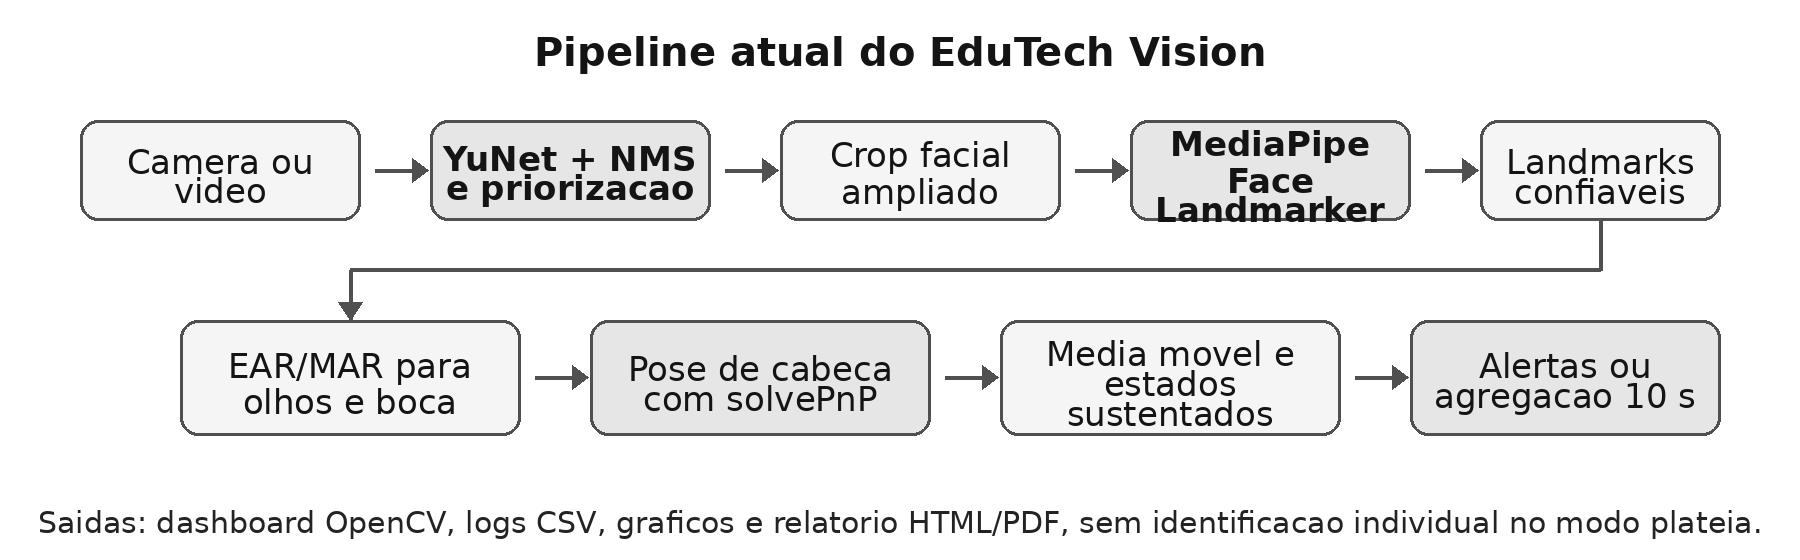
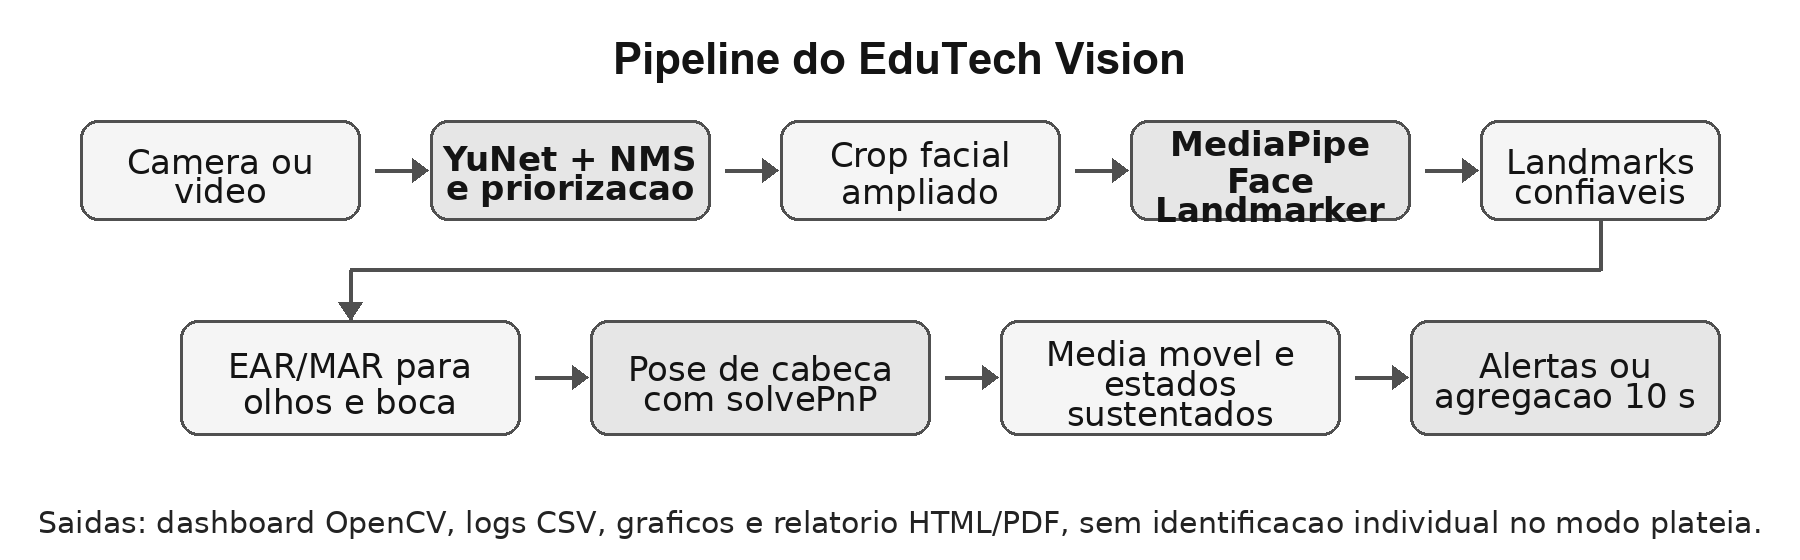
Clarify final article wording

Changed region(s): [[0.28, 0.0607, 0.7156, 0.1518]]

diff --git a/docs/entrega_professor/latex/artigo_edutech_vision_grupo3.tex b/docs/entrega_professor/latex/artigo_edutech_vision_grupo3.tex
@@ -25,11 +25,11 @@ Câmpus Universitário de Rondonópolis -- Rondonópolis -- MT -- Brasil\\
 \maketitle
 
 \begin{abstract}
-EduTech Vision is a real-time digital image processing (DIP) system for demonstrating attention, posture and audience engagement in individual and audience modes, without student identification. The pipeline uses Open Source Computer Vision Library (OpenCV) YuNet, MediaPipe Face Landmarker, Eye/Mouth Aspect Ratios (EAR/MAR), Perspective-n-Point (PnP) pose, moving averages and 10 s aggregation. In 960x540 benchmarks, enhanced reached F1=0.712 in individual mode and F1=0.583 in audience mode; in a 1080p high-quality (HQ) audience audit, 10/11 counts were within one face. The system is a DIP demonstration, not a pedagogical or clinical diagnostic tool.
+EduTech Vision is a real-time digital image processing (DIP) system for demonstrating attention, posture and audience engagement in individual and audience modes, without student identification. The pipeline uses the OpenCV YuNet face detector, MediaPipe Face Landmarker, Eye/Mouth Aspect Ratios (EAR/MAR), Perspective-n-Point (PnP) pose, moving averages and 10 s aggregation. In 960x540 benchmarks, the enhanced configuration reached F1=0.712 in individual mode and F1=0.583 in audience mode; in a 1080p high-quality (HQ) audience audit, 10/11 counts were within one face. The system is a DIP demonstration, not a pedagogical or clinical diagnostic tool.
 \end{abstract}
 
 \begin{resumo}
-O EduTech Vision é um sistema de Processamento Digital de Imagens (PDI) em tempo real para demonstrar atenção visual, postura e engajamento em modos individual e plateia, sem identificar estudantes. O pipeline usa Open Source Computer Vision Library (OpenCV) YuNet, MediaPipe Face Landmarker, razões olho/boca (EAR/MAR), pose Perspective-n-Point (PnP), médias móveis e agregação de 10 s. Em benchmarks 960x540, enhanced alcançou F1=0,712 no modo individual e F1=0,583 no modo plateia; em auditoria 1080p de alta qualidade (HQ), 10/11 contagens ficaram a até um rosto do valor manual. O sistema é demonstração de PDI, não avaliação pedagógica ou diagnóstico clínico.
+O EduTech Vision é um sistema de Processamento Digital de Imagens (PDI) em tempo real para demonstrar atenção visual, postura e engajamento em modos individual e plateia, sem identificar estudantes. O pipeline usa o detector facial YuNet da OpenCV, MediaPipe Face Landmarker, razões olho/boca (EAR/MAR), pose Perspective-n-Point (PnP), médias móveis e agregação de 10 s. Em benchmarks 960x540, a configuração enhanced alcançou F1=0,712 no modo individual e F1=0,583 no modo plateia; em auditoria 1080p de alta qualidade (HQ), 10/11 contagens ficaram a até um rosto do valor manual. O sistema é demonstração de PDI, não avaliação pedagógica ou diagnóstico clínico.
 \end{resumo}
 
 \section{Introdução}
@@ -38,7 +38,7 @@ A observação de atenção, postura e engajamento em ambientes educacionais cos
 
 Neste contexto, o EduTech Vision foi desenvolvido como produto acadêmico da Trilha 3: Atenção, Postura e Engajamento. O sistema possui dois cenários complementares: no modo individual, uma câmera frontal acompanha uma pessoa e estima fadiga, bocejo, queda postural e desatenção sustentada; no modo plateia, uma câmera voltada a um grupo calcula métricas agregadas de faces voltadas ao palco ou professor. O modo plateia não identifica alunos e não produz decisões individualizadas.
 
-O objetivo deste artigo é apresentar a versão atual do sistema com linguagem científica e evidências compatíveis com os resultados atuais disponíveis. O trabalho não afirma medir aprendizagem, rendimento escolar ou estado clínico. Os indicadores gerados são aproximações visuais para fins de demonstração acadêmica de PDI em tempo real.
+O objetivo deste artigo é apresentar a versão entregue do sistema com linguagem científica e evidências compatíveis com os resultados disponíveis. O trabalho não afirma medir aprendizagem, rendimento escolar ou estado clínico. Os indicadores gerados são aproximações visuais para fins de demonstração acadêmica de PDI em tempo real.
 
 \section{Fundamentação}
 
@@ -50,36 +50,36 @@ A postura e o foco visual aproximado são estimados por pose de cabeça. O siste
 
 \section{Sistema Proposto}
 
-A Figura~\ref{fig:pipeline} sintetiza o pipeline atual. A entrada pode ser câmera ou vídeo, processada em resolução padrão de 960x540. O perfil padrão é enhanced: OpenCV YuNet detecta faces, aplica supressão de não máximos e prioriza candidatos \cite{wu2023}; em seguida, cada região é recortada com margem ampliada e enviada ao MediaPipe Face Landmarker \cite{google2026}. O perfil mediapipe é mantido como baseline, enquanto o perfil research, baseado em Sample and Computation Redistribution for Efficient Face Detection (SCRFD) \cite{guo2022}, é apenas comparativo acadêmico e não constitui o padrão de distribuição.
+A Figura~\ref{fig:pipeline} sintetiza o pipeline entregue. A entrada pode ser câmera ou vídeo, processada em resolução padrão de 960x540. O perfil padrão é enhanced, isto é, uma configuração reforçada em que o YuNet da OpenCV detecta faces, aplica supressão de não máximos e prioriza candidatos \cite{wu2023}; em seguida, cada região é recortada com margem ampliada e enviada ao MediaPipe Face Landmarker \cite{google2026}. O perfil mediapipe é mantido como baseline, ou linha de base comparativa, enquanto o perfil research, baseado no detector Sample and Computation Redistribution for Efficient Face Detection (SCRFD) \cite{guo2022}, é apenas comparativo acadêmico e não constitui o padrão de distribuição.
 
 \begin{figure}[!htbp]
 \centering
 \includegraphics[width=\textwidth]{pipeline_original.png}
-\caption{Pipeline atual do EduTech Vision. NMS indica supressão de não máximos.}
+\caption{Pipeline do EduTech Vision. NMS indica supressão de não máximos.}
 \label{fig:pipeline}
 \end{figure}
 
-No modo individual, a configuração atual usa confiança facial 0,70 e no máximo uma face. A primeira etapa de uso realiza calibração de 5 s para estabelecer referências de EAR, MAR, yaw e pitch. Em seguida, as medidas passam por média móvel de janela 7 e por condições sustentadas, evitando que piscadas ou movimentos pontuais acionem alertas. Os alertas visuais indicam fadiga, bocejo, postura ruim e desatenção, sem atribuir diagnóstico clínico.
+No modo individual, a configuração entregue usa confiança facial 0,70 e no máximo uma face. A primeira etapa de uso realiza calibração de 5 s para estabelecer referências de EAR, MAR, yaw e pitch. Em seguida, as medidas passam por média móvel de janela 7 e por condições sustentadas, evitando que piscadas ou movimentos pontuais acionem alertas. Os alertas visuais indicam fadiga, bocejo, postura ruim e desatenção, sem atribuir diagnóstico clínico.
 
-No modo plateia, a configuração atual usa confiança facial 0,60, limite de 24 faces, tolerância de 30 graus em yaw, tolerância de 20 graus em pitch e janela de agregação de 10 s. Faces detectadas sem landmarks confiáveis podem aparecer no painel visual como detecções anônimas, mas não entram no cálculo de pose e engajamento. A saída persistida é agregada, composta por séries temporais e estatísticas da sessão.
+No modo plateia, a configuração entregue usa confiança facial 0,60, limite de 24 faces, tolerância de 30 graus em yaw, tolerância de 20 graus em pitch e janela de agregação de 10 s. Faces detectadas sem landmarks confiáveis podem aparecer no painel visual como detecções anônimas, mas não entram no cálculo de pose e engajamento. A saída persistida é agregada, composta por séries temporais e estatísticas da sessão.
 
 \section{Metodologia Experimental}
 
-A avaliação foi organizada em quatro frentes. A primeira é o benchmark smoke do detector, que compara o baseline MediaPipe em quadro inteiro com o perfil enhanced em dois modos. As métricas são recall de face, recall de landmarks, precisão, F1, FPS médio e FPS mínimo. O recall de face considera uma caixa localizada corretamente; o recall de landmarks é mais restritivo e exige que a face também gere pontos suficientes para EAR, MAR ou pose.
+A avaliação foi organizada em quatro frentes. A primeira é um benchmark preliminar automatizado do detector, que compara a linha de base MediaPipe em quadro inteiro com o perfil enhanced nos dois modos. As métricas são recall de face, recall de landmarks, precisão, F1, FPS médio e FPS mínimo. O recall de face considera uma caixa localizada corretamente; o recall de landmarks é mais restritivo e exige que a face também gere pontos suficientes para EAR, MAR ou pose.
 
 A segunda frente é a auditoria de alta qualidade (HQ) de plateia. Nessa avaliação, vídeos 1080p são processados integralmente e quadros selecionados são comparados com contagens manuais de rostos avaliáveis. As métricas são acertos exatos, casos com erro de no máximo um rosto, erro absoluto médio, presença da contagem manual dentro da janela temporal de mais ou menos 1 s, quadros por segundo (FPS) médio e FPS no percentil 10.
 
 A terceira frente é o relatório de sessão. Ele demonstra instrumentação da aplicação por meio de logs em valores separados por vírgula (CSV), gráficos, relatório em HyperText Markup Language (HTML), relatório em Portable Document Format (PDF), timeline de eventos e telemetria. Esses artefatos são usados para evidenciar capacidade de registro e reprodutibilidade da demonstração, e não como verdade final dos protocolos formais.
 
-Por fim, a versão atual contém metodologia e scripts para os cinco protocolos formais do plano da disciplina: robustez luminosa, resiliência a oclusão, telemetria de FPS, matriz de confusão e tolerância a falhas. Entretanto, não foram usados resultados históricos, preliminares ou logs finais antigos como evidência da versão atual. Na ausência de novos registros experimentais finais desses cinco protocolos, eles são tratados neste artigo como metodologia disponível para reexecução. O suporte a reconexão de câmera é descrito apenas como característica de robustez implementada, não como resultado experimental principal.
+Por fim, a versão entregue contém metodologia e scripts para os cinco protocolos formais do plano da disciplina: robustez luminosa, resiliência a oclusão, telemetria de FPS, matriz de confusão e tolerância a falhas. Entretanto, não foram usados resultados históricos, preliminares ou logs finais antigos como evidência da entrega. Na ausência de novos registros experimentais finais desses cinco protocolos, eles são tratados neste artigo como metodologia disponível para reexecução. O suporte a reconexão de câmera é descrito apenas como característica de robustez implementada, não como resultado experimental principal.
 
 \section{Resultados}
 
-A Tabela~\ref{tab:benchmark} apresenta o benchmark smoke canônico da versão atual. Em ambos os modos, o perfil enhanced aumenta substancialmente o recall de face e o F1 em relação ao baseline MediaPipe, mantendo desempenho em tempo real. A redução de FPS é esperada, pois o pipeline passa a executar detecção por YuNet, recortes ampliados e landmarks em regiões de interesse, em vez de depender apenas do rastreamento direto no quadro inteiro.
+A Tabela~\ref{tab:benchmark} apresenta o benchmark preliminar automatizado da versão entregue. Em ambos os modos, o perfil enhanced aumenta substancialmente o recall de face e o F1 em relação à linha de base MediaPipe, mantendo desempenho em tempo real. A redução de FPS é esperada, pois o pipeline passa a executar detecção por YuNet, recortes ampliados e landmarks em regiões de interesse, em vez de depender apenas do rastreamento direto no quadro inteiro.
 
 \begin{table}[!htbp]
 \centering
-\caption{Benchmark smoke do detector em 960x540.}
+\caption{Benchmark preliminar automatizado do detector em 960x540.}
 \label{tab:benchmark}
 \scriptsize
 \begin{tabular}{|c|c|c|c|c|c|c|c|}
@@ -123,7 +123,7 @@ FPS p10 & 9,4\\
 \end{tabular}
 \end{table}
 
-A matriz de confusão disponível na versão revisada é demonstrativa. Ela contém 50 amostras sintéticas de atenção e desatenção, usadas para testar o fluxo de cálculo, visualização e relatório. A Tabela~\ref{tab:confusao} mostra que houve 46 acertos e 4 erros, produzindo acurácia, precisão macro, recall macro e F1 macro de 0,92. Como as amostras são explicitamente demonstrativas, esse resultado não é apresentado como validação científica real; a validação final exige amostras reais rotuladas.
+A matriz de confusão disponível na entrega é demonstrativa. Ela contém 50 amostras sintéticas de atenção e desatenção, usadas para testar o fluxo de cálculo, visualização e relatório. A Tabela~\ref{tab:confusao} mostra que houve 46 acertos e 4 erros, produzindo acurácia, precisão macro, recall macro e F1 macro de 0,92. Como as amostras são explicitamente demonstrativas, esse resultado não é apresentado como validação científica real; a validação final exige amostras reais rotuladas.
 
 \begin{table}[!htbp]
 \centering
@@ -149,7 +149,7 @@ Os resultados justificam o uso do perfil enhanced como padrão. O baseline Media
 
 Essa diferença é importante para interpretar o sistema. Uma face pode ser localizada por caixa, mas não gerar landmarks estáveis o suficiente para pose, EAR ou MAR. Nesses casos, a face pode ser desenhada de forma anônima, mas não deve influenciar métricas de atenção ou engajamento. Por isso, recall de face e recall de landmarks são relatados separadamente.
 
-Também há diferença metodológica entre o FPS do benchmark e o FPS da auditoria HQ. O benchmark smoke mede o pipeline do detector em 960x540, com foco em comparação controlada entre perfis. A auditoria HQ processa vídeos 1080p completos, registra respostas por frame e avalia cenas com maior densidade visual. É esperado que os valores absolutos de FPS sejam menores nesse contexto.
+Também há diferença metodológica entre o FPS do benchmark e o FPS da auditoria HQ. O benchmark preliminar mede o pipeline do detector em 960x540, com foco em comparação controlada entre perfis. A auditoria HQ processa vídeos 1080p completos, registra respostas por frame e avalia cenas com maior densidade visual. É esperado que os valores absolutos de FPS sejam menores nesse contexto.
 
 \section{Considerações Éticas e Lei Geral de Proteção de Dados}
 
@@ -165,9 +165,9 @@ As limitações observadas são coerentes com aplicações de visão computacion
 
 \section{Conclusão}
 
-Este artigo apresentou a versão atual do EduTech Vision, uma aplicação funcional de PDI em tempo real para monitoramento aproximado de atenção visual, postura e engajamento agregado. A arquitetura atual combina YuNet, MediaPipe Face Landmarker em recortes ampliados, EAR, MAR, solvePnP, suavização temporal e relatórios de sessão. O benchmark smoke mostra que o perfil enhanced supera o baseline MediaPipe em recall e F1 nos dois modos, enquanto a auditoria HQ indica desempenho aceitável para contagem agregada em vídeos mais pesados.
+Este artigo apresentou a versão entregue do EduTech Vision, uma aplicação funcional de PDI em tempo real para monitoramento aproximado de atenção visual, postura e engajamento agregado. A arquitetura combina YuNet, MediaPipe Face Landmarker em recortes ampliados, EAR, MAR, solvePnP, suavização temporal e relatórios de sessão. O benchmark preliminar mostra que o perfil enhanced supera a linha de base MediaPipe em recall e F1 nos dois modos, enquanto a auditoria HQ indica desempenho aceitável para contagem agregada em vídeos mais pesados.
 
-As evidências atuais sustentam o sistema como demonstração reprodutível e tecnicamente coerente para a Trilha 3. Ao mesmo tempo, a matriz de confusão disponível é apenas demonstrativa e os cinco protocolos formais devem ser reexecutados com novos registros experimentais finais para uma validação máxima da versão atual. Trabalhos futuros incluem ampliar amostras reais rotuladas, testar diferentes condições de iluminação e distância, melhorar a estabilidade de landmarks em rostos pequenos e refinar a comunicação ética do uso em ambientes educacionais.
+As evidências disponíveis sustentam o sistema como demonstração reprodutível e tecnicamente coerente para a Trilha 3. Ao mesmo tempo, a matriz de confusão disponível é apenas demonstrativa e os cinco protocolos formais devem ser reexecutados com novos registros experimentais finais para uma validação máxima da entrega. Trabalhos futuros incluem ampliar amostras reais rotuladas, testar diferentes condições de iluminação e distância, melhorar a estabilidade de landmarks em rostos pequenos e refinar a comunicação ética do uso em ambientes educacionais.
 
 \section*{Agradecimentos}
 